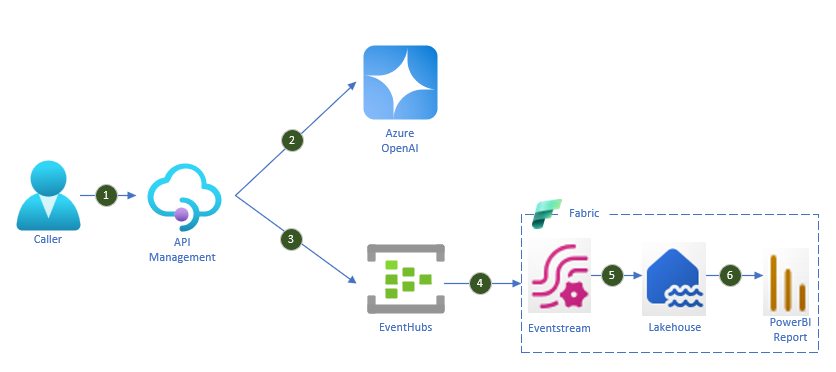
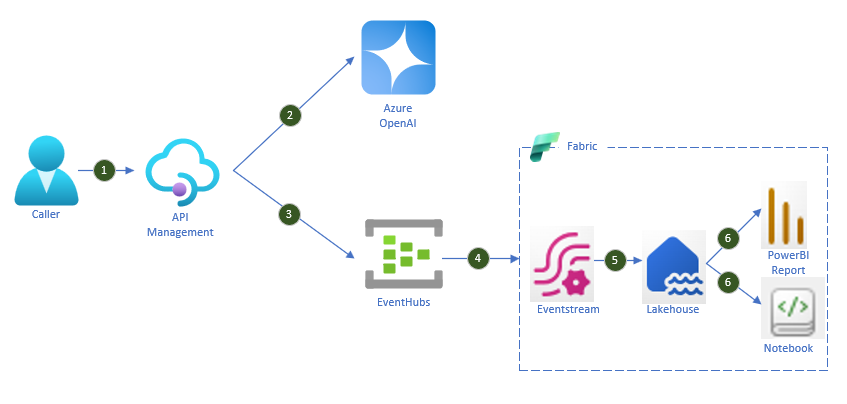
updates to architecture diagram to include notebook.

diff --git a/README.md b/README.md
@@ -21,7 +21,7 @@ Flow:
 1. Azure API Management logs the subscription id and request/response data to Event Hubs using an EventLogger policy.
 1. An Eventstream processor in Microsoft Fabric reads the data from Event Hubs.
 1. The output of the stream is writen to a delta table in a Lakehouse.
-1. The data in the delta table is then queried via a Power BI report.
+1. The data in the delta table is then queried via a Power BI report or a Notebook.
 
 Note, you can easily swap out the subscription key for tracking an individual user by using JWT tokens and associating the user with the token.  This would allow you to track usage at the user level.
 
